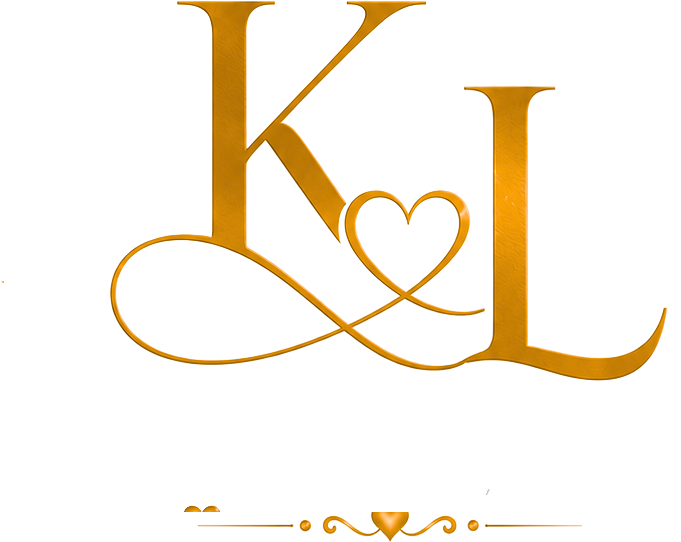
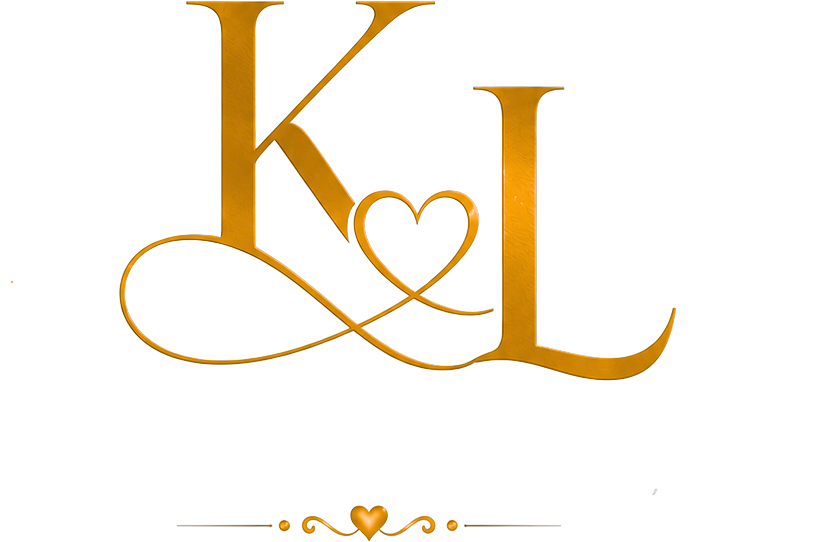
Center monogram on heart, center names, tune mandala opacity
- Rebuild monogram.png centered on the K-L heart so it aligns with
  the centered KHUSHBOO / & / LAKHAN (between S and H)
- Center-align the couple names
- Mandala opacity: hero .22, invitation .15 (mobile hero .18)

Changed region(s): [[0.1233, 0.0, 0.9868, 0.7085], [0.2159, 0.9151, 0.8326, 1.0]]

diff --git a/styles.css b/styles.css
@@ -95,7 +95,7 @@ body::before {
   transform: translate(-50%, -50%);
   z-index: 0;
   pointer-events: none;
-  opacity: .16;
+  opacity: .22;
 }
 .mandala-bg img { width: 100%; display: block; animation: spin 60s linear infinite; }
 @keyframes spin { to { transform: rotate(360deg); } }
@@ -196,8 +196,6 @@ body::before {
   align-items: center;
   line-height: 1.02;
 }
-.couple-names .name:first-of-type { transform: translateX(-0.9em); }
-.couple-names .name:last-of-type  { transform: translateX(0.7em); }
 .couple-names .amp {
   font-family: var(--script-en);
   color: var(--gold-dark);
@@ -205,7 +203,6 @@ body::before {
   font-size: 1.15em;
   line-height: 1;
   margin: .04em 0;
-  transform: translateX(1.9em);
 }
 
 .hero-date {
@@ -328,7 +325,7 @@ body::before {
   width: min(680px, 92vw);
   aspect-ratio: 1;
   background: url("assets/elements/mandala.png") center / contain no-repeat;
-  opacity: .06;
+  opacity: .15;
   pointer-events: none;
   z-index: 0;
 }
@@ -844,7 +841,7 @@ body::before {
   .hero { min-height: 100vh; padding-top: 8rem; }
   .hero-figure { display: none; }
   .toran-top { width: 132%; }
-  .mandala-bg { width: 100vw; opacity: .12; }
+  .mandala-bg { width: 100vw; opacity: .18; }
   .monogram { padding: 1rem 1.5rem; }
   .cd-box { min-width: 68px; padding: .6rem .4rem; }
   .cd-box span { font-size: 1.5rem; }
